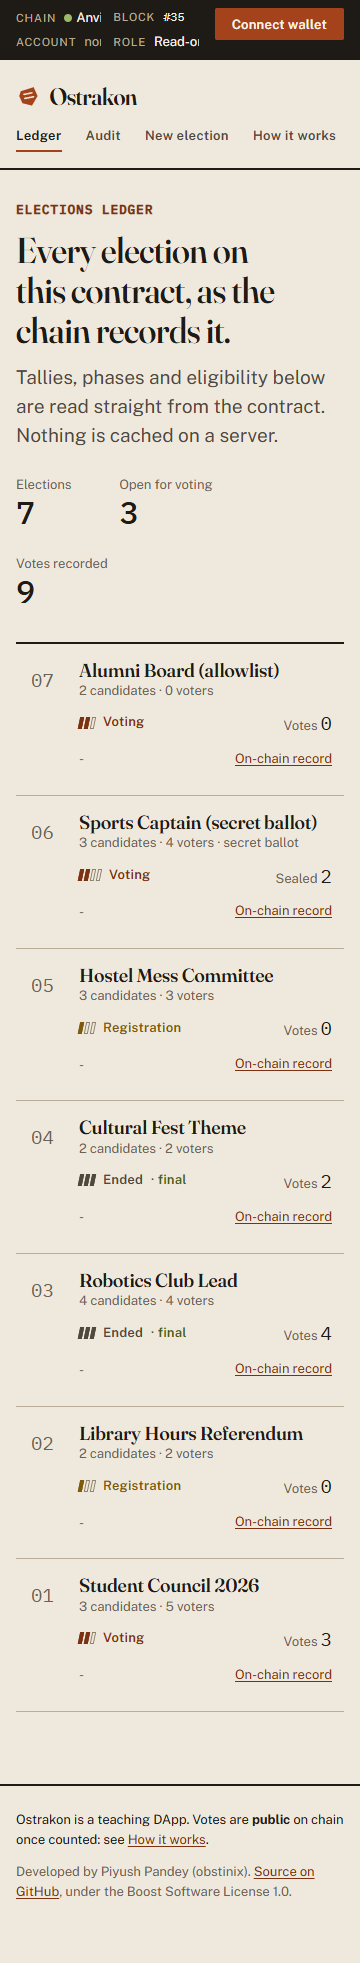
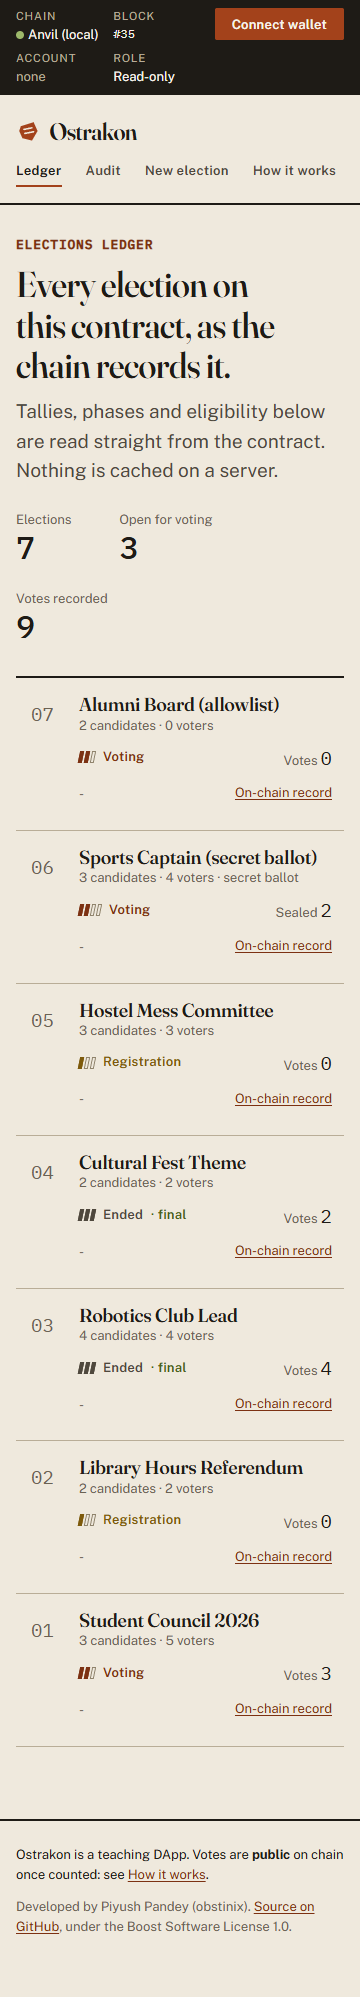
fix(web): keep network bar values readable at 360px
On narrow screens each label now sits above its value, long values end in
an ellipsis, and the chain id and the account copy button are hidden.
Before, the Connect button left each column about 97px and the chain
name, account and role were cut off. A new E2E test checks no value is
clipped, read-only and connected.

diff --git a/e2e/app.spec.ts b/e2e/app.spec.ts
@@ -417,6 +417,33 @@ test("360px: no horizontal scroll, ledger rows stack", async ({ page }) => {
   await expect(page.locator(".ledger-cols")).toBeHidden();
 });
 
+test("360px: network bar values are not clipped", async ({ page }) => {
+  await page.setViewportSize({ width: 360, height: 780 });
+  // Returns the labels of values cut off by their column. `only` limits the check.
+  const clipped = (only?: string[]) =>
+    page.locator(".netbar-items > div:visible").evaluateAll(
+      (items, only) =>
+        items
+          .map((d) => ({ label: d.querySelector("dt")?.textContent ?? "", d, dd: d.querySelector("dd")! }))
+          .filter(({ label }) => !only || only.includes(label))
+          // Either the value overflows itself, or the item cuts the value off.
+          .filter(({ d, dd }) => dd.scrollWidth > dd.clientWidth + 1 || d.scrollWidth > d.clientWidth + 1)
+          .map(({ label }) => label),
+      only,
+    );
+
+  await asMock(page, 3);
+  await page.goto("/");
+  await expect(page.getByTestId("role")).toHaveText("Read-only");
+  await expect(page.getByTestId("block-number")).toHaveText(/#\d+/);
+  expect(await clipped()).toEqual([]);
+
+  await connect(page);
+  await expect(page.getByTestId("role")).not.toHaveText("Read-only");
+  // A long role summary may end in an ellipsis by design; the others must fit.
+  expect(await clipped(["Chain", "Block", "Account"])).toEqual([]);
+});
+
 test("reduced motion: final values render immediately, no transitions", async ({ page }) => {
   await page.emulateMedia({ reducedMotion: "reduce" });
   await page.addInitScript(() => {

diff --git a/web/src/styles/index.css b/web/src/styles/index.css
@@ -1293,9 +1293,24 @@ select:focus-visible {
     grid-template-columns: repeat(2, minmax(0, 1fr));
     gap: var(--s-1) var(--s-3);
   }
+  /* Label above value: at 360px the Connect button leaves each column about 100px, too narrow
+     for a label and value side by side. Long values (role summaries) end in an ellipsis. */
   .netbar-items > div {
+    flex-direction: column;
+    align-items: stretch;
+    gap: 0;
     overflow: hidden;
     white-space: nowrap;
+  }
+  .netbar-items dd {
+    overflow: hidden;
+    text-overflow: ellipsis;
+  }
+  /* The chain id and the account's copy button don't fit a ~97px column; your wallet already
+     shows your own address, and the full value stays in the title. */
+  .netbar-chainid,
+  .netbar .copy {
+    display: none;
   }
   .netbar-contract {
     display: none !important;

diff --git a/web/src/components/NetworkBar.tsx b/web/src/components/NetworkBar.tsx
@@ -31,7 +31,7 @@ export function NetworkBar() {
           <dt>Chain</dt>
           <dd>
             <span className={`dot ${live ? "dot-live" : "dot-down"}`} aria-hidden="true" />
-            {runtime.chain.name} <span className="mono muted">{runtime.chain.id}</span>
+            {runtime.chain.name} <span className="mono muted netbar-chainid">{runtime.chain.id}</span>
           </dd>
         </div>
         <div>
